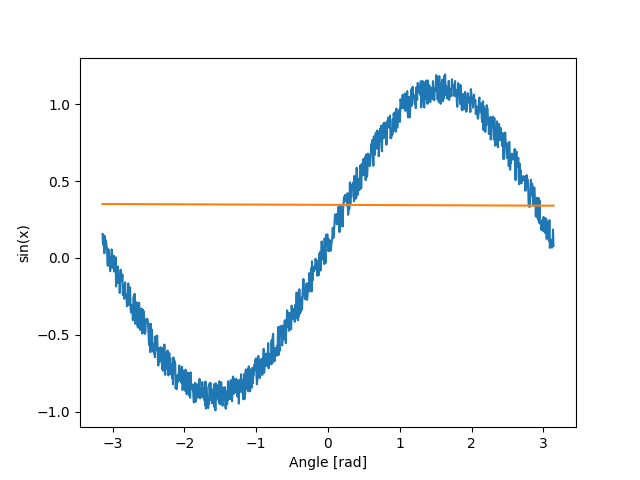
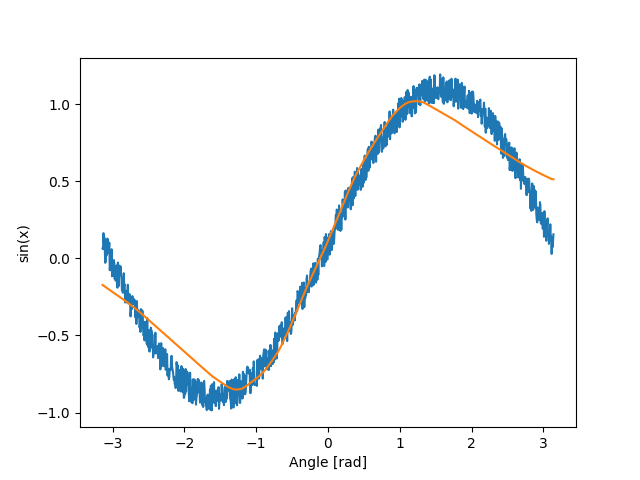
4 layer model

diff --git a/model.py b/model.py
@@ -29,3 +29,25 @@ class ModelB(nn.Module):
         x = F.relu(x)
         x = self.lin2(x)
         return x
+
+class ModelC(nn.Module):
+    def __init__(self):
+        super(ModelB, self).__init__()
+        self.lin1 = nn.Linear(2, 128)
+        self.lin2 = nn.Linear(128, 128)
+        self.lin3 = nn.Linear(128, 128)
+        self.lin4 = nn.Linear(128, 1)
+
+    def forward(self, x: torch.Tensor):
+        """Forward function for the model.
+        
+        :param x: The input tensor.
+        """
+        x = self.lin1(x)
+        x = F.relu(x)
+        x = self.lin2(x)
+        x = F.relu(x)
+        x = self.lin3(x)
+        x = F.relu(x)
+        x = self.lin4(x)
+        return x
